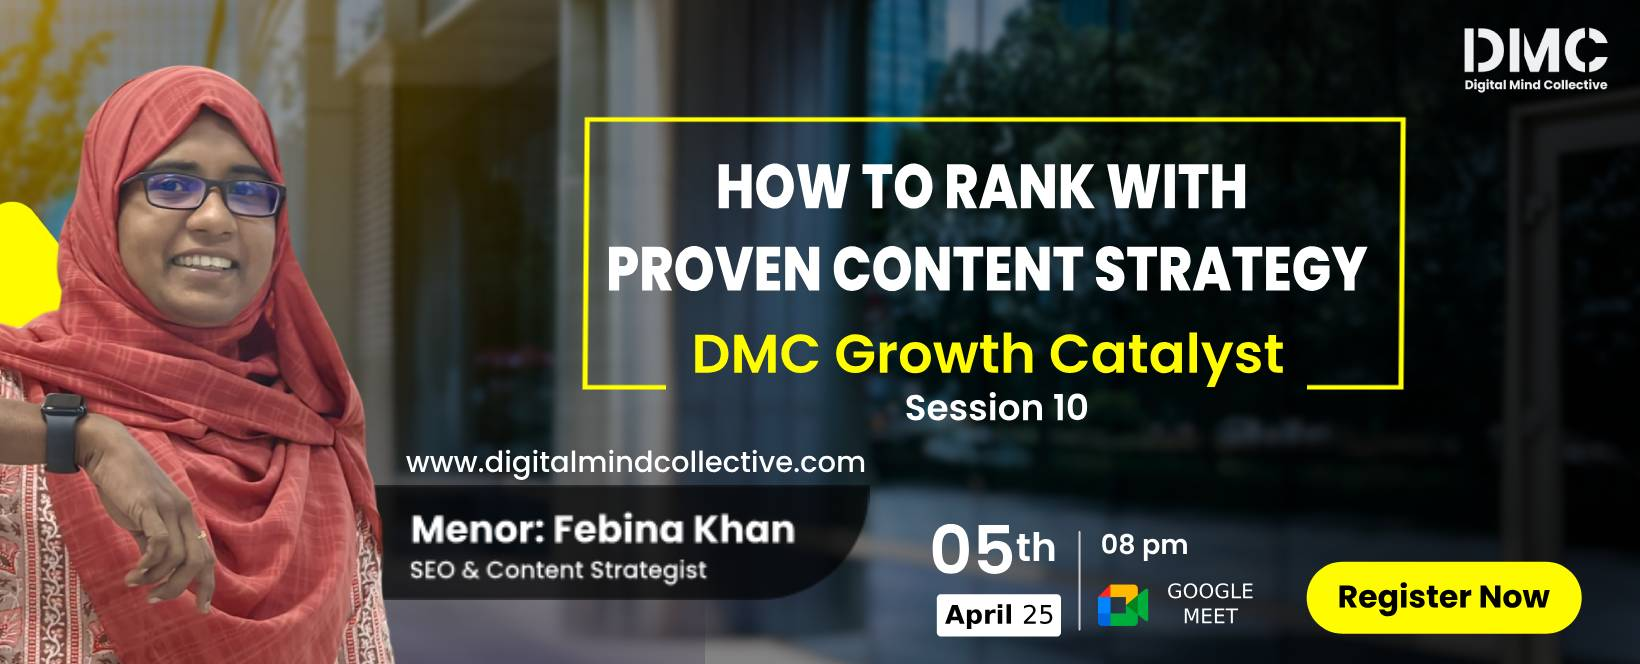
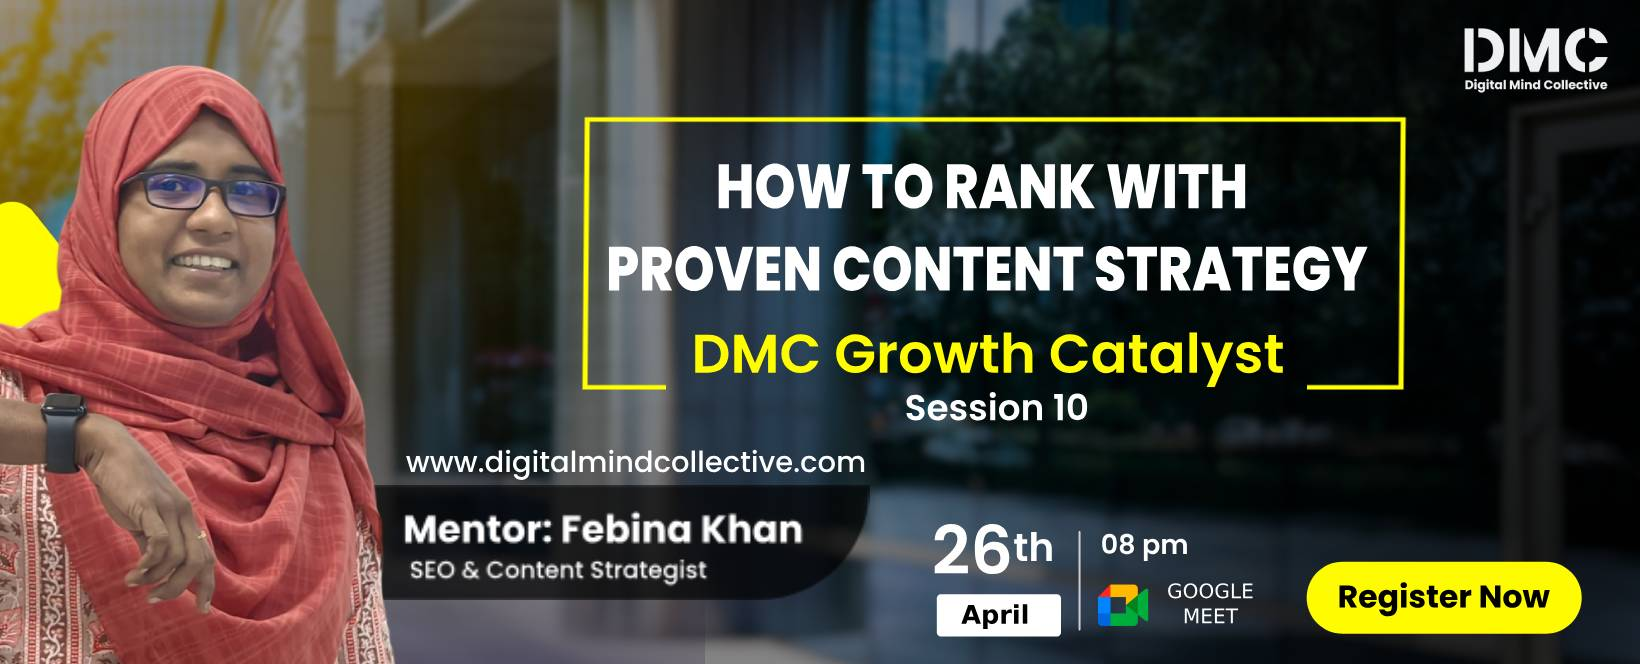
event page updated

Changed region(s): [[0.2488, 0.753, 0.4976, 0.8434], [0.5598, 0.7831, 0.653, 0.8735], [0.5598, 0.9036, 0.653, 0.9639]]

diff --git a/Events/GrowthCatalyst/2025/April/DMCGC10-EventRegister.html b/Events/GrowthCatalyst/2025/April/DMCGC10-EventRegister.html
@@ -4,6 +4,18 @@
     <meta charset="UTF-8">
     <meta name="viewport" content="width=device-width, initial-scale=1.0">
     <title>DMC Growth Catalyst Session 10 : How to Rank with Proven Content Strategy</title>
+<!-- Meta Title & Description -->
+<meta name="description" content="Join DMC Growth Catalyst Session 10 with Febina Khan on April 26 to master content strategy and SEO ranking techniques. Limited seats, register now!">
+
+<!-- Open Graph Tags -->
+<meta property="og:title" content="DMC Growth Catalyst Session 10: Rank with Proven Content Strategy">
+<meta property="og:description" content="Free session by Febina Khan on SEO and content strategy, hosted by Digital Mind Collective. April 26, 8PM IST on Google Meet.">
+<meta property="og:image" content="https://www.digitalmindcollective.com/Events/GrowthCatalyst/2025/April/Febina%20Khan.jpg">
+<meta property="og:url" content="https://www.digitalmindcollective.com/Events/GrowthCatalyst/2025/April/DMCGC10-EventRegister.html">
+<meta property="og:type" content="website">
+
+
+
     <link href="https://cdn.jsdelivr.net/npm/tailwindcss@2.2.19/dist/tailwind.min.css" rel="stylesheet">
     <link href="https://fonts.googleapis.com/css2?family=Poppins:wght@300;400;500;600;700&display=swap" rel="stylesheet">
     <link rel="stylesheet" href="https://cdn.jsdelivr.net/npm/@fortawesome/fontawesome-free@6.4.2/css/all.min.css">
@@ -338,8 +350,35 @@
             border-left: 4px solid var(--primary-blue);
         }
     </style>
+
+    
+<!-- Google tag (gtag.js) -->
+<script async src="https://www.googletagmanager.com/gtag/js?id=G-9EF77EJ6JT"></script>
+<script>
+  window.dataLayer = window.dataLayer || [];
+  function gtag(){dataLayer.push(arguments);}
+  gtag('js', new Date());
+
+  gtag('config', 'G-9EF77EJ6JT');
+</script>
+    <!-- Google Tag Manager -->
+<script>(function(w,d,s,l,i){w[l]=w[l]||[];w[l].push({'gtm.start':
+new Date().getTime(),event:'gtm.js'});var f=d.getElementsByTagName(s)[0],
+j=d.createElement(s),dl=l!='dataLayer'?'&l='+l:'';j.async=true;j.src=
+'https://www.googletagmanager.com/gtm.js?id='+i+dl;f.parentNode.insertBefore(j,f);
+})(window,document,'script','dataLayer','GTM-KRX54LVS');</script>
+<!-- End Google Tag Manager -->
+
+
 </head>
 <body>
+    
+
+<!-- Google Tag Manager (noscript) -->
+<noscript><iframe src="https://www.googletagmanager.com/ns.html?id=GTM-KRX54LVS"
+    height="0" width="0" style="display:none;visibility:hidden"></iframe></noscript>
+    <!-- End Google Tag Manager (noscript) -->
+     
     <!-- Header/Navigation -->
     <header id="header" class="py-4">
         <div class="container mx-auto">
